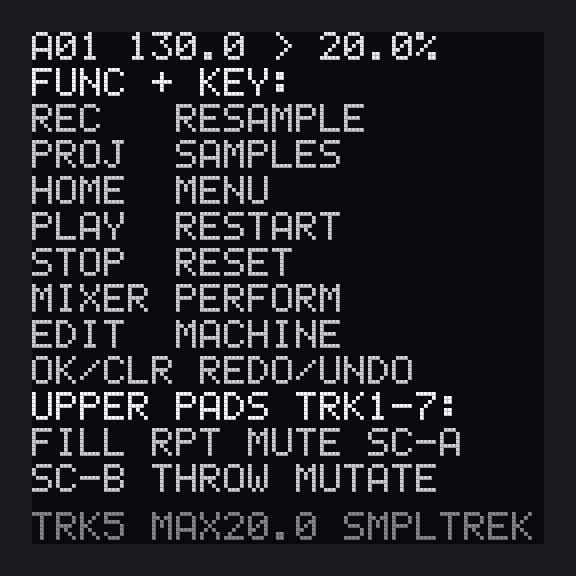
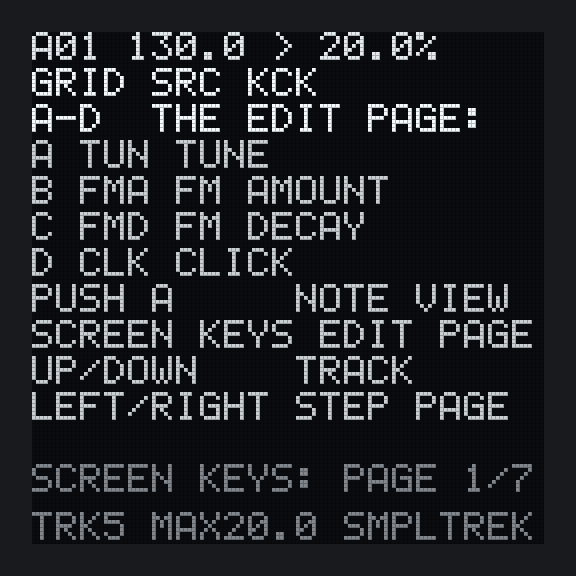
ui: FUNC held alone shows help for the screen that is up
The screen keys or LEFT/RIGHT, with FUNC still held, turn its pages. Layout
check over every page on every screen, EDIT page, machine and MIXER page.

Claude-Session: https://claude.ai/code/session_01Tw2EaChowpfQzeDTc99vhQ

diff --git a/app/app.hpp b/app/app.hpp
@@ -25,6 +25,7 @@
 
 #include "arp.hpp"          // the ARP page's names and clicks
 #include "engine.hpp"
+#include "help.hpp"         // the FUNC help's pages, one set per screen
 #include "record.hpp"       // live recording's stamping and quantizing, used from here only
 #include "sounds.hpp"       // SOUNDS: the factory sounds for one track
 #include "storage.hpp"      // projects, autosave and the sample loader: the card side
@@ -436,6 +437,10 @@ constexpr int param_click(int index) {
 }
 static_assert(page_first(Page(kEditPages - 1)) + kParamsPerPage == kTrackParams,
               "EDIT's last page is the last four track parameters");
+// The FUNC help (core/help.hpp) has a knob page for each EDIT page and a page for each MIXER
+// page, in these orders.
+static_assert(kEditPages == kHelpEditPages, "an EDIT page the help knows nothing about");
+static_assert(kMixerPageCount == kHelpMixerPages, "a MIXER page the help knows nothing about");
 
 class Strata : public enaga::App {
     friend struct strata::test::UiProbe;    // tests/test_ui.cpp only; see the note above
@@ -492,6 +497,20 @@ public:
             if (down) {
                 shift_at_ms_ = last_ms_;
                 shift_alone_ = true;
+                help_page_ = 0;                 // the help opens on the screen's own page
+            }
+            return;
+        }
+        // While the help shows, the screen keys (or LEFT/RIGHT) turn its pages, as they turn the
+        // screen's own. FUNC + these four does nothing anywhere else (docs/CONTROLS.md), and
+        // only once the help is up, so no chord changes meaning.
+        if (func_help_showing() &&
+            (key == ENAGA_KEY_SELECT_LEFT || key == ENAGA_KEY_SELECT_RIGHT ||
+             key == ENAGA_KEY_LEFT || key == ENAGA_KEY_RIGHT)) {
+            if (down) {
+                const int pages = help_page_count(help_place());
+                const int delta = key == ENAGA_KEY_SELECT_LEFT || key == ENAGA_KEY_LEFT ? -1 : 1;
+                help_page_ = (help_page_ + delta + pages) % pages;
             }
             return;
         }
@@ -2741,7 +2760,9 @@ public:
         *out = 0;
         canvas.text(0, 0, line, 14);
 
-        if ((step_page_ || mode_ != Mode::grid) && notice_showing()) {
+        if (func_help_showing()) {
+            // The help's title takes this line (draw_func_help).
+        } else if ((step_page_ || mode_ != Mode::grid) && notice_showing()) {
             // What just happened, on the second line. GRID shows it in its edit-state line; every
             // other screen had nowhere for it, so a gesture there (F1 + F3's "again to save", an
             // octave, a scene captured) answered with nothing at all.
@@ -2814,10 +2835,11 @@ public:
 
     // --- the FUNC help: FUNC held on its own ------------------------------
     //
-    // docs/CONTROLS.md: FUNC + a function key is the label printed UNDER that key, and the upper
-    // pads are printed TRK 1-7 but are STRATA's performance pads. Holding FUNC for a moment with
-    // nothing else shows both, over whatever screen is up; the next key, knob or pad (or letting
-    // go of FUNC) takes it away, so it never sits in the way of a chord.
+    // docs/CONTROLS.md, "FUNC help". Holding FUNC for a moment with nothing else shows help for
+    // the screen that is up: its knobs and its gestures first (core/help.hpp), then, a screen key
+    // at a time, FUNC + each function key, FUNC + a knob or pad, and the upper pads. The next
+    // other key, knob or pad (or letting go of FUNC) takes it away, so it never sits in the way
+    // of a chord.
 
     static constexpr uint32_t kFuncHelpMs = 600;
 
@@ -2826,21 +2848,72 @@ public:
                uint32_t(last_ms_ - shift_at_ms_) >= kFuncHelpMs;
     }
 
+    // Where the help is: the screen, the EDIT or MIXER page, and the knobs as the screen names
+    // them, so the help says "B FMA FM AMOUNT" on a kick and "B SNP SNAPPY" on a snare.
+    HelpPlace help_place() const {
+        HelpPlace place;
+        place.machine = engine_.machine_id(selected_);
+        place.page = uint8_t(param_page_);
+        const int base = page_first(Page(param_page_));
+        for (int i = 0; i < 4; i++) place.knob[i] = track_param_name(base + i);
+        if (step_page_) {
+            place.screen = HelpScreen::step;
+            return place;
+        }
+        switch (mode_) {
+            case Mode::grid:     place.screen = HelpScreen::grid; break;
+            case Mode::edit:
+                place.screen = macro_learn_ >= 0 ? HelpScreen::learn : HelpScreen::edit;
+                break;
+            case Mode::keys:     place.screen = HelpScreen::keys; break;
+            case Mode::mixer:
+                place.screen = HelpScreen::mixer;
+                place.page = uint8_t(mixer_bank_);
+                break;
+            case Mode::perform:  place.screen = HelpScreen::perform; break;
+            case Mode::project:
+                switch (project_page_) {
+                    case ProjectPage::chain:   place.screen = HelpScreen::chain; break;
+                    case ProjectPage::pattern: place.screen = HelpScreen::pattern; break;
+                    case ProjectPage::setup:   place.screen = HelpScreen::setup; break;
+                    case ProjectPage::files:   place.screen = HelpScreen::projects; break;
+                    default:                   place.screen = HelpScreen::project; break;
+                }
+                break;
+            case Mode::resample: place.screen = HelpScreen::resample; break;
+            case Mode::machine:  place.screen = HelpScreen::machine; break;
+            case Mode::kit:      place.screen = HelpScreen::kit; break;
+            case Mode::samples:  place.screen = HelpScreen::samples; break;
+            case Mode::sounds:   place.screen = HelpScreen::sounds; break;
+            case Mode::menu:     place.screen = HelpScreen::menu; break;
+        }
+        return place;
+    }
+
+    // Title on the second line, ten rows, and the page line: "SCREEN KEYS: PAGE 1/7", which is
+    // also how anyone finds out there is more than one page.
     void draw_func_help(enaga::Canvas &canvas) {
         canvas.rect(0, 9, 128, 110, 0);
-        canvas.text(0, 9, "FUNC + KEY:", 15);
-        static const char *const kLines[] = {
-            "REC   RESAMPLE", "PROJ  SAMPLES", "HOME  MENU", "PLAY  RESTART", "STOP  RESET",
-            "MIXER PERFORM", "EDIT  MACHINE", "OK/CLR REDO/UNDO",
-        };
-        int y = 18;
-        for (const char *line : kLines) {
-            canvas.text(0, y, line, 12);
-            y += 9;
+        const HelpPlace place = help_place();
+        char title[kHelpChars + 1];
+        char rows[kHelpRows][kHelpChars + 1];
+        const int pages = help_page_count(place);
+        const int count = help_page(place, help_page_, title, rows);
+        canvas.text(0, 9, title, 15);
+        for (int r = 0; r < count; r++) {
+            int length = 0;
+            while (rows[r][length] != 0) length++;
+            const bool heading = length > 0 && rows[r][length - 1] == ':';
+            canvas.text(0, 18 + r * 9, rows[r], heading ? 15 : 12);
         }
-        canvas.text(0, y, "UPPER PADS TRK1-7:", 15);
-        canvas.text(0, y + 9, "FILL RPT MUTE SC-A", 12);
-        canvas.text(0, y + 18, "SC-B THROW MUTATE", 12);
+        char line[40];
+        char *out = line;
+        append(out, pages < 10 ? "SCREEN KEYS: PAGE " : "PAGE ");
+        append_number(out, uint32_t(help_page_ % pages + 1));
+        *out++ = '/';
+        append_number(out, uint32_t(pages));
+        *out = 0;
+        canvas.text(0, 108, line, 7);
     }
 
     // --- GRID: all eight tracks at a glance ------------------------------
@@ -6093,6 +6166,7 @@ private:
     Mode menu_return_ = Mode::grid;   // the screen the FUNC menu opened over
     int menu_cursor_ = 0;             // the FUNC menu's row; SAVE when it opens
     bool shift_alone_ = false;        // FUNC down and nothing else pressed since
+    int help_page_ = 0;               // the FUNC help's page: 0 = the screen's own
     uint32_t shift_at_ms_ = 0;        // when FUNC went down
     int chain_remove_armed_ = -1;                 // CHAIN's F1 + LEFT, armed on this entry
     uint32_t chain_remove_armed_at_ms_ = 0;

diff --git a/tests/test_ui.cpp b/tests/test_ui.cpp
@@ -5461,6 +5461,186 @@ TEST(ui_func_held_alone_shows_the_help_and_a_chord_does_not) {
     key(ENAGA_KEY_F4);
 }
 
+// The help is for the screen that is up (Roland, 2026-11-23; core/help.hpp): its own page
+// first, and the screen keys or LEFT/RIGHT, with FUNC still held, turn the pages without
+// touching the screen's own.
+namespace {
+
+void hold_func(Strata &app) {
+    app.on_key(ENAGA_KEY_F1, true);
+    pump(700);
+    CHECK(UiProbe::func_help(app));
+}
+
+void let_go_of_func(Strata &app) {
+    app.on_key(ENAGA_KEY_F1, false);
+    CHECK(!UiProbe::func_help(app));
+}
+
+// Every page of the help on the screen that is up, through the layout check, turning with the
+// screen key. Ends on the page it started on, so it can be called twice in a row.
+void check_help_layout(Strata &app, const char *where) {
+    hold_func(app);
+    for (int p = 0; p < 12; p++) {
+        check_layout(app, where);
+        if (screen_has(app, "PAGE 1/") && p > 0) break;   // round again: every page seen
+        key(ENAGA_KEY_SELECT_RIGHT);
+        CHECK(UiProbe::func_help(app));
+    }
+    let_go_of_func(app);
+}
+
+}  // namespace
+
+TEST(ui_the_func_help_is_for_the_screen_that_is_up) {
+    Strata &app = fresh();
+    key(ENAGA_KEY_F4);                                   // GRID, a kick on track 1
+    hold_func(app);
+    CHECK(screen_has(app, "GRID SRC KCK"));
+    CHECK(screen_has(app, "B FMA FM AMOUNT"));
+    CHECK(screen_has(app, "SCREEN KEYS: PAGE 1/7"));
+    CHECK(!screen_has(app, "FUNC + KEY:"));
+
+    // The screen keys turn the help's pages while FUNC is held, and not GRID's knob page.
+    const int knob_page = UiProbe::param_page(app);
+    key(ENAGA_KEY_SELECT_RIGHT);
+    CHECK(UiProbe::func_help(app));
+    CHECK(screen_has(app, "STEPS:"));
+    CHECK(screen_has(app, "PAGE 2/7"));
+    CHECK_EQ(UiProbe::param_page(app), knob_page);
+    // LEFT goes back, and round: the last page is the upper pads.
+    key(ENAGA_KEY_LEFT);
+    key(ENAGA_KEY_LEFT);
+    CHECK(UiProbe::func_help(app));
+    CHECK(screen_has(app, "UPPER PADS TRK1-7:"));
+    key(ENAGA_KEY_SELECT_LEFT);
+    key(ENAGA_KEY_SELECT_LEFT);
+    CHECK(screen_has(app, "FUNC + KEY:"));
+    CHECK(screen_has(app, "MIXER  PERFORM"));
+    CHECK_EQ(UiProbe::param_page(app), knob_page);
+    CHECK_EQ(UiProbe::mode(app), int(Mode::grid));
+    let_go_of_func(app);
+    // The next hold opens on the screen's own page again.
+    hold_func(app);
+    CHECK(screen_has(app, "GRID SRC KCK"));
+    let_go_of_func(app);
+
+    // FUNC + a screen key before the help is up is still a chord that does nothing to the help.
+    app.on_key(ENAGA_KEY_F1, true);
+    key(ENAGA_KEY_SELECT_RIGHT);
+    pump(800);
+    CHECK(!UiProbe::func_help(app));
+    app.on_key(ENAGA_KEY_F1, false);
+
+    // EDIT names its page and machine; the snare's knobs are the snare's.
+    post_track(Cmd::set_machine, 0, uint8_t(MachineId::snare));
+    pump(4);
+    key(ENAGA_KEY_F8);
+    hold_func(app);
+    CHECK(screen_has(app, "EDIT SRC SNR"));
+    CHECK(screen_has(app, "B SNP SNAPPY"));
+    CHECK(screen_has(app, "PUSH A     NOTE VIEW"));
+    let_go_of_func(app);
+
+    // MIXER: the page that is up, the duck's here.
+    mixer_page(app, 4);
+    hold_func(app);
+    CHECK(screen_has(app, "MIXER DUCK:"));
+    CHECK(screen_has(app, "A SRC SOURCE TRACK"));
+    let_go_of_func(app);
+    CHECK_EQ(UiProbe::mixer_bank(app), 4);
+
+    // PERFORM, then MACRO LEARN from it: EDIT's help says what a push does now.
+    shift_key(ENAGA_KEY_F7);
+    CHECK_EQ(UiProbe::mode(app), int(Mode::perform));
+    hold_func(app);
+    CHECK(screen_has(app, "PUSH A-D   LEARN"));
+    let_go_of_func(app);
+    key(ENAGA_KEY_PUSH_B);
+    CHECK_EQ(UiProbe::macro_learn(app), 1);
+    hold_func(app);
+    CHECK(screen_has(app, "MACRO LEARN:"));
+    let_go_of_func(app);
+    key(ENAGA_KEY_CLR);                                  // LEARN ends
+    CHECK_EQ(UiProbe::macro_learn(app), -1);
+
+    // The step page (hold STEP + OK).
+    key(ENAGA_KEY_F4);
+    step_down(2);
+    key(ENAGA_KEY_OK);
+    step_up(2);
+    CHECK(UiProbe::step_page(app));
+    hold_func(app);
+    CHECK(screen_has(app, "STEP PAGE:"));
+    let_go_of_func(app);
+    key(ENAGA_KEY_CLR);
+    post_track(Cmd::set_machine, 0, 0);
+    pump(4);
+    key(ENAGA_KEY_F4);
+}
+
+TEST(ui_layout_every_page_of_the_func_help) {
+    Strata &app = fresh();
+    worst_case_content(app);
+    key(ENAGA_KEY_F4);
+    for (int page = 0; page < kEditPages; page++) {      // GRID, on each EDIT page A-D turn
+        check_help_layout(app, "help on GRID");
+        key(ENAGA_KEY_SELECT_RIGHT);
+    }
+    for (int machine = 0; machine < int(MachineId::count); machine++) {
+        post_track(Cmd::set_machine, 0, uint8_t(machine));
+        pump(4);
+        key(ENAGA_KEY_F8);
+        for (int page = 0; page < kEditPages; page++) {
+            check_help_layout(app, machine_name(uint8_t(machine)));
+            key(ENAGA_KEY_SELECT_RIGHT);
+        }
+    }
+    post_track(Cmd::set_machine, 0, 0);
+    pump(4);
+    for (int page = 0; page < kMixerPageCount; page++) {
+        mixer_page(app, page);
+        check_help_layout(app, "help on MIXER");
+    }
+    shift_key(ENAGA_KEY_F7);
+    check_help_layout(app, "help on PERFORM");
+    key(ENAGA_KEY_PUSH_A);                               // MACRO LEARN
+    check_help_layout(app, "help in MACRO LEARN");
+    key(ENAGA_KEY_CLR);
+    key(ENAGA_KEY_F4);
+    key(ENAGA_KEY_F4);                                   // HOME twice: KEYS
+    if (UiProbe::mode(app) != int(Mode::keys)) key(ENAGA_KEY_F4);
+    check_help_layout(app, "help on KEYS");
+    key(ENAGA_KEY_F4);
+    step_down(2);
+    key(ENAGA_KEY_OK);
+    step_up(2);
+    check_help_layout(app, "help on the STEP PAGE");
+    key(ENAGA_KEY_CLR);
+    key(ENAGA_KEY_F3);
+    for (int page = 0; page < 5; page++) {               // PROJECT CHAIN PATTERN SETUP PROJECTS
+        check_help_layout(app, "help on PROJECT");
+        key(ENAGA_KEY_SELECT_RIGHT);
+    }
+    shift_key(ENAGA_KEY_F8);
+    check_help_layout(app, "help on MACHINE");
+    shift_key(ENAGA_KEY_F8);
+    check_help_layout(app, "help on KIT");
+    shift_key(ENAGA_KEY_F2);
+    check_help_layout(app, "help on RESAMPLE");
+    shift_key(ENAGA_KEY_F3);
+    check_help_layout(app, "help on SAMPLES");
+    key(ENAGA_KEY_F8);
+    key(ENAGA_KEY_OK);                                   // a kick: SOUNDS
+    CHECK_EQ(UiProbe::mode(app), int(Mode::sounds));
+    check_help_layout(app, "help on SOUNDS");
+    shift_key(ENAGA_KEY_F4);
+    CHECK_EQ(UiProbe::mode(app), int(Mode::menu));
+    check_help_layout(app, "help on the FUNC menu");
+    key(ENAGA_KEY_CLR);
+    key(ENAGA_KEY_F4);
+}
+
 TEST(ui_layout_the_func_menu) {
     Strata &app = fresh();
     worst_case_content(app);
@@ -6118,6 +6298,10 @@ TEST(ui_screenshots) {
     // FUNC held alone: after 0.6 s the help over the screen (docs/CONTROLS.md, FUNC help).
     app.on_key(ENAGA_KEY_F1, true);
     write_shot(folder, "help", 800);
+    CHECK(UiProbe::func_help(app));
+    // The screen keys turn it: back three pages is FUNC + each function key, on every screen.
+    for (int i = 0; i < 3; i++) key(ENAGA_KEY_SELECT_LEFT);
+    write_shot(folder, "help_keys", 1);
     CHECK(UiProbe::func_help(app));
     app.on_key(ENAGA_KEY_F1, false);
 
